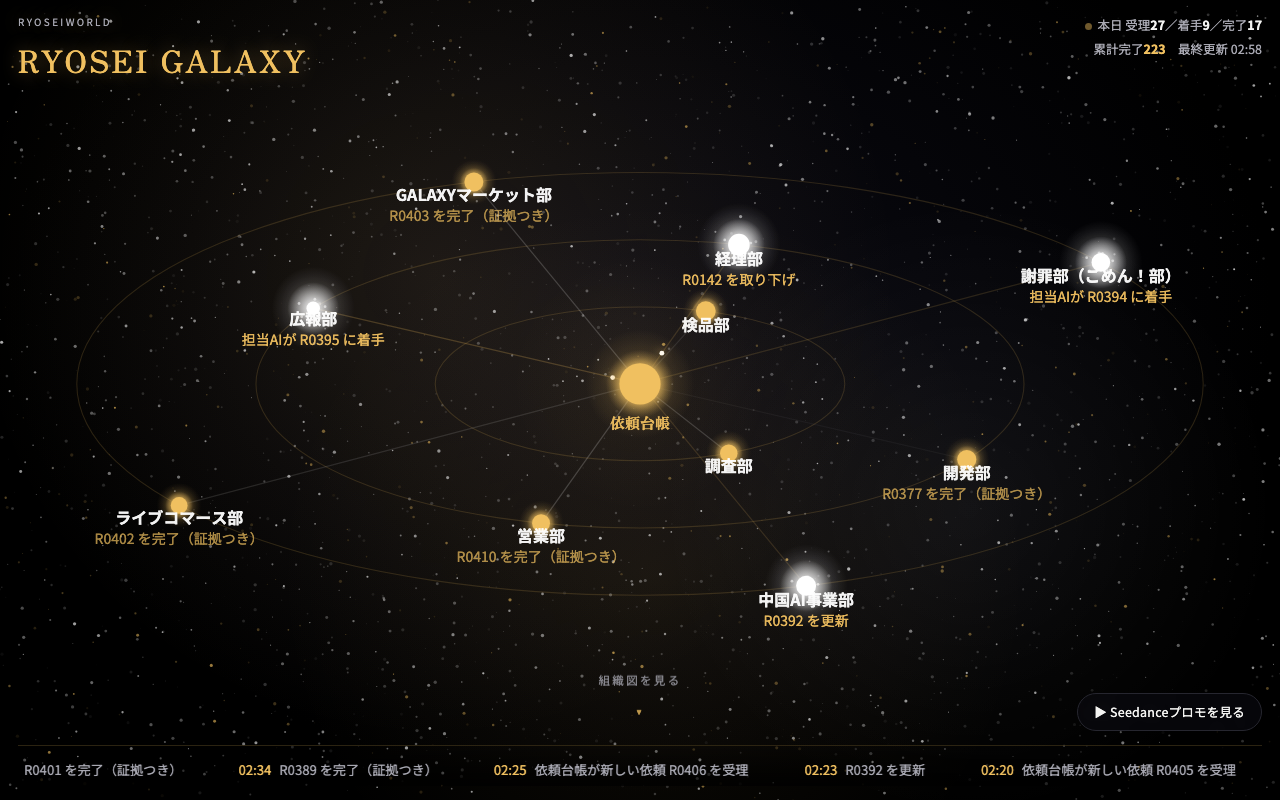
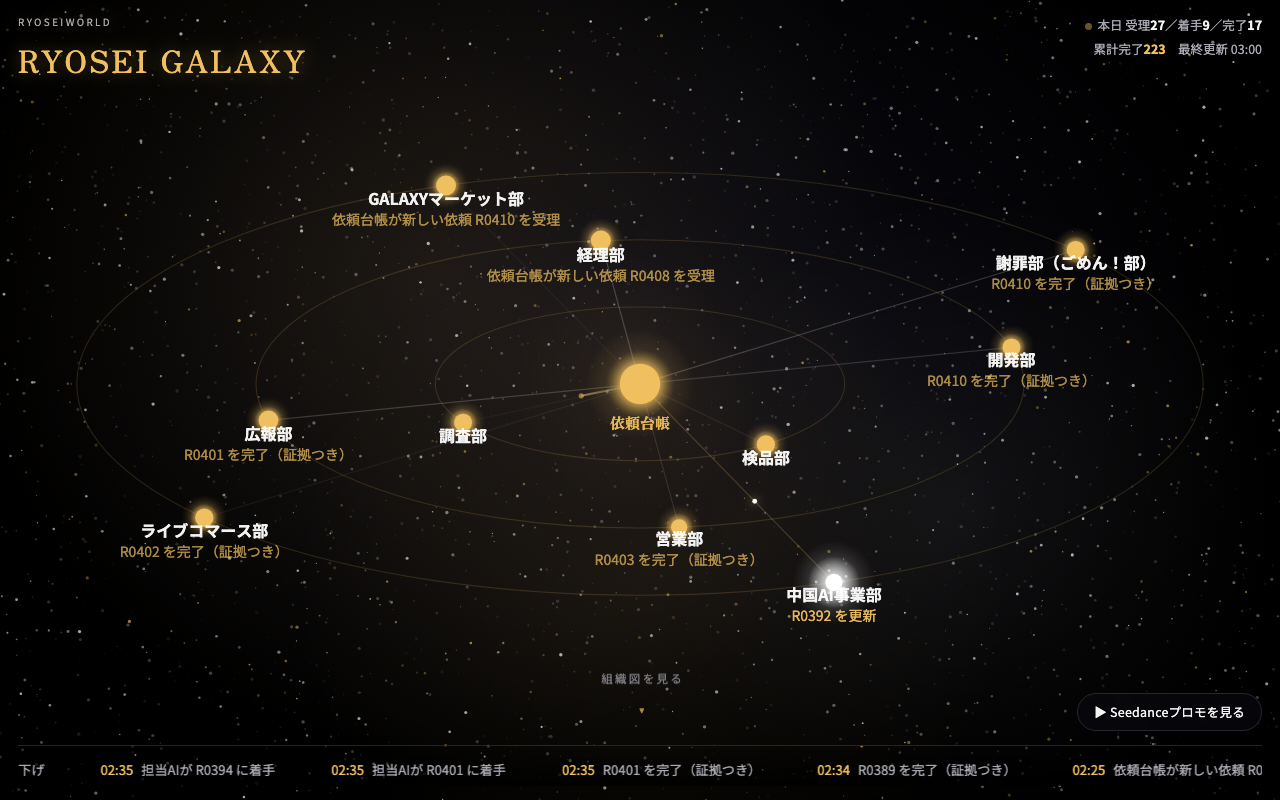
v2 review pass 5: mobile 4-direction label anchoring, verified at 6 time points
Claude-Session: https://claude.ai/code/session_017jk5o1QXdgjpUc5kA5BBkU

diff --git a/index.html b/index.html
@@ -587,19 +587,23 @@
   var LABEL_NAME_SIZE = 16, LABEL_SUB_SIZE = 14;
   var LABEL_ANCHOR_GAP = 10;
   var HUB_FONT_SIZE = 15, HUB_ANCHOR_GAP = 10;
-  var ANGLE_NUDGE_MAX = 8 * Math.PI / 180; // ±8度
+  var ANGLE_NUDGE_MAX_DESKTOP = 8 * Math.PI / 180;  // ±8度
+  var ANGLE_NUDGE_MAX_MOBILE = 15 * Math.PI / 180;  // ±15度（モバイルはより詰まりやすいため広め）
   var ANGLE_NUDGE_STEP = 0.012;
   var ANGLE_NUDGE_EASE = 0.90;
 
+  // 位相は0°/45°/90°、角速度比は外:中:内 = 1:1.35:1.8（外が遅く内が速い）
+  var SPEED_BASE = 0.00004;
+  var PHASE_OUTER = 0, PHASE_MID = Math.PI/4, PHASE_INNER = Math.PI/2;
   var ELLIPSE_DEFS_DESKTOP = [
-    { key:'outer', count:4, rxF:0.44, ryF:0.52, speed:-0.00004, phase:0.15 },
-    { key:'mid',   count:4, rxF:0.30, ryF:0.52, speed: 0.00007, phase:0.95 },
-    { key:'inner', count:3, rxF:0.16, ryF:0.52, speed:-0.00012, phase:0.55 }
+    { key:'outer', count:4, rxF:0.44, ryF:0.52, speed:-SPEED_BASE*1.0,  phase:PHASE_OUTER },
+    { key:'mid',   count:4, rxF:0.30, ryF:0.52, speed: SPEED_BASE*1.35, phase:PHASE_MID },
+    { key:'inner', count:3, rxF:0.16, ryF:0.52, speed:-SPEED_BASE*1.8,  phase:PHASE_INNER }
   ];
   var ELLIPSE_DEFS_MOBILE = [
-    { key:'outer', count:4, rxF:0.42, ryF:1.6, speed:-0.00004, phase:0.15 },
-    { key:'mid',   count:4, rxF:0.30, ryF:1.6, speed: 0.00007, phase:0.95 },
-    { key:'inner', count:3, rxF:0.16, ryF:1.6, speed:-0.00012, phase:0.55 }
+    { key:'outer', count:4, rxF:0.42, ryF:1.6, speed:-SPEED_BASE*1.0,  phase:PHASE_OUTER },
+    { key:'mid',   count:4, rxF:0.30, ryF:1.6, speed: SPEED_BASE*1.35, phase:PHASE_MID },
+    { key:'inner', count:3, rxF:0.16, ryF:1.6, speed:-SPEED_BASE*1.8,  phase:PHASE_INNER }
   ];
 
   // 楕円は真円ではないため「等角度」で並べると、rx≫ry側の扁平な楕円では
@@ -713,6 +717,29 @@
     return Math.min(Math.max(x, half), W - half);
   }
 
+  // モバイル: ノードの位置（中心からの角度）に応じてラベルを4方向（右/下/左/上）に置く。
+  // 縦長楕円では右端付近で3リングが接近するため、下に固定せず横方向にも逃がす。
+  // draw()の実描画とestimateLabelRectの両方から同じ結果を使うことで検証と表示のズレを防ぐ。
+  function mobileLabelPlacement(node, w, fontSize){
+    var ang = (node.baseAngle || 0) + (node.offset || 0);
+    ang = ((ang % (Math.PI*2)) + Math.PI*2) % (Math.PI*2);
+    var gap = 8, r = 9;
+    var sector;
+    if(ang <= Math.PI*0.25 || ang > Math.PI*1.75) sector = 'right';
+    else if(ang <= Math.PI*0.75) sector = 'bottom';
+    else if(ang <= Math.PI*1.25) sector = 'left';
+    else sector = 'top';
+
+    var x, y, align;
+    if(sector === 'right'){ x = node.x + r + gap; y = node.y + fontSize/3; align = 'left'; }
+    else if(sector === 'left'){ x = node.x - r - gap; y = node.y + fontSize/3; align = 'right'; }
+    else if(sector === 'bottom'){ x = node.x; y = node.y + r + gap + fontSize; align = 'center'; }
+    else { x = node.x; y = node.y - r - gap; align = 'center'; }
+
+    var rectX = align === 'left' ? x : (align === 'right' ? x - w : x - w/2);
+    return { x:x, y:y, align:align, rect:{ x:rectX, y:y - fontSize, w:w, h:fontSize } };
+  }
+
   // このフレームで各ノードのラベルが占める矩形を、実際の描画前に見積もる（省略なし＝フルネーム基準）
   function estimateLabelRect(node){
     if(node.isHub){
@@ -725,6 +752,11 @@
     var f = labelFontsFor(node);
     ctx.font = 'bold ' + f.nameSize + 'px "Noto Sans JP", sans-serif';
     var nameW = ctx.measureText(node.def.name).width;
+
+    if(IS_MOBILE_LAYOUT){
+      return mobileLabelPlacement(node, nameW, f.nameSize).rect;
+    }
+
     var anchorY = node.y + 9 + LABEL_ANCHOR_GAP;
     var h = f.nameSize;
     var w = nameW;
@@ -774,7 +806,8 @@
       if(!overlapping[n.def.key]){
         n.offset *= ANGLE_NUDGE_EASE; // 衝突していないノードは徐々に定位置へ戻す
       }
-      n.offset = Math.max(-ANGLE_NUDGE_MAX, Math.min(ANGLE_NUDGE_MAX, n.offset));
+      var nudgeMax = IS_MOBILE_LAYOUT ? ANGLE_NUDGE_MAX_MOBILE : ANGLE_NUDGE_MAX_DESKTOP;
+      n.offset = Math.max(-nudgeMax, Math.min(nudgeMax, n.offset));
     });
   }
 
@@ -1151,43 +1184,52 @@
         return true;
       });
 
-      // ラベル: 常にノード直下・省略なしのフルネーム。画面端では中心アンカーだけ内側へ寄せる（文字は切らない）。
+      // ラベル: 省略なしのフルネーム。デスクトップは常にノード直下、
+      // モバイルは中心からの角度に応じて右/下/左/上の4方向へ配置する。
       // 重なる瞬間は角度側で回避済み（resolveLabelOverlaps）
       if(!node.isHub){
         var f = labelFontsFor(node);
-        var anchorY = node.y + r + LABEL_ANCHOR_GAP;
-
         ctx.font = 'bold ' + f.nameSize + 'px "Noto Sans JP", sans-serif';
         var nameText = node.def.name; // 省略禁止：フルネームをそのまま描画
         var nameWidth = ctx.measureText(nameText).width;
-        var stateLabel = node.state === 'working' ? '稼働中' : (node.state === 'done' ? '完了直後' : '待機中');
-        var subText = node.current || stateLabel; // 省略禁止
-        var subWidth = 0;
-        if(f.showSub){
-          ctx.font = f.subSize + 'px "Noto Sans JP", sans-serif';
-          subWidth = ctx.measureText(subText).width;
-        }
-        var labelAnchorX = clampLabelX(node.x, Math.max(nameWidth, subWidth));
 
-        ctx.textAlign = 'center';
-        ctx.font = 'bold ' + f.nameSize + 'px "Noto Sans JP", sans-serif';
-        ctx.fillStyle = 'rgba(255,255,255,0.95)';
-        ctx.fillText(nameText, labelAnchorX, anchorY);
-        window.__RG_DEBUG.labelRects.push({
-          dept: node.def.name,
-          x: labelAnchorX - nameWidth/2, y: anchorY - f.nameSize, w: nameWidth, h: f.nameSize
-        });
+        if(IS_MOBILE_LAYOUT){
+          var placement = mobileLabelPlacement(node, nameWidth, f.nameSize);
+          ctx.textAlign = placement.align;
+          ctx.fillStyle = 'rgba(255,255,255,0.95)';
+          ctx.fillText(nameText, placement.x, placement.y);
+          window.__RG_DEBUG.labelRects.push({ dept: node.def.name, x: placement.rect.x, y: placement.rect.y, w: placement.rect.w, h: placement.rect.h });
+        } else {
+          var anchorY = node.y + r + LABEL_ANCHOR_GAP;
+          var stateLabel = node.state === 'working' ? '稼働中' : (node.state === 'done' ? '完了直後' : '待機中');
+          var subText = node.current || stateLabel; // 省略禁止
+          var subWidth = 0;
+          if(f.showSub){
+            ctx.font = f.subSize + 'px "Noto Sans JP", sans-serif';
+            subWidth = ctx.measureText(subText).width;
+          }
+          var labelAnchorX = clampLabelX(node.x, Math.max(nameWidth, subWidth));
 
-        if(f.showSub){
-          // 外・中リングのみ状態行（部署名の1行下）を表示。内リングは部署名のみ。
-          ctx.font = f.subSize + 'px "Noto Sans JP", sans-serif';
-          var subY = anchorY + f.subSize + 6;
-          ctx.fillStyle = node.state === 'working' ? 'rgba(240,192,96,0.95)' : 'rgba(240,192,96,0.7)';
-          ctx.fillText(subText, labelAnchorX, subY);
+          ctx.textAlign = 'center';
+          ctx.font = 'bold ' + f.nameSize + 'px "Noto Sans JP", sans-serif';
+          ctx.fillStyle = 'rgba(255,255,255,0.95)';
+          ctx.fillText(nameText, labelAnchorX, anchorY);
           window.__RG_DEBUG.labelRects.push({
-            dept: node.def.name + ':sub',
-            x: labelAnchorX - subWidth/2, y: subY - f.subSize, w: subWidth, h: f.subSize
+            dept: node.def.name,
+            x: labelAnchorX - nameWidth/2, y: anchorY - f.nameSize, w: nameWidth, h: f.nameSize
           });
+
+          if(f.showSub){
+            // 外・中リングのみ状態行（部署名の1行下）を表示。内リングは部署名のみ。
+            ctx.font = f.subSize + 'px "Noto Sans JP", sans-serif';
+            var subY = anchorY + f.subSize + 6;
+            ctx.fillStyle = node.state === 'working' ? 'rgba(240,192,96,0.95)' : 'rgba(240,192,96,0.7)';
+            ctx.fillText(subText, labelAnchorX, subY);
+            window.__RG_DEBUG.labelRects.push({
+              dept: node.def.name + ':sub',
+              x: labelAnchorX - subWidth/2, y: subY - f.subSize, w: subWidth, h: f.subSize
+            });
+          }
         }
       } else {
         var hubAnchorY = node.y + baseR + HUB_ANCHOR_GAP + HUB_FONT_SIZE;
